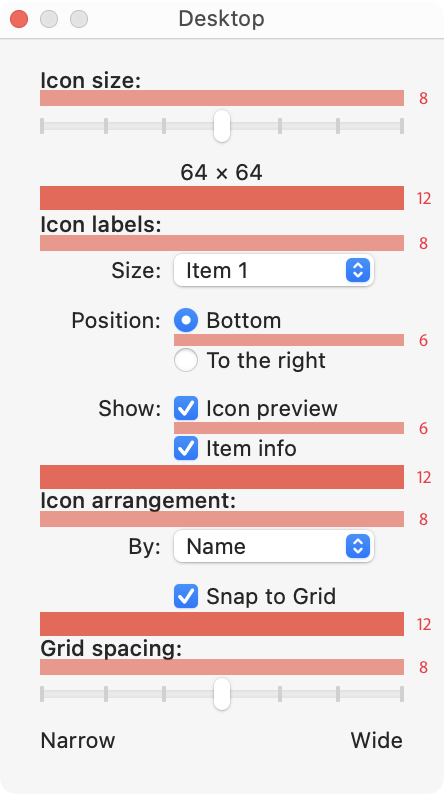
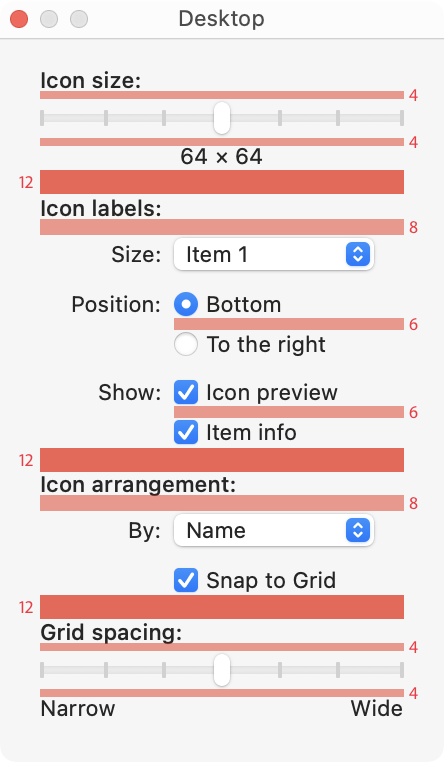
Updating images for Small control size examples

diff --git a/macappdesign/layouts/index.html b/macappdesign/layouts/index.html
@@ -16,7 +16,7 @@
 		<meta property="og:site_name" content="marioaguzman.github.io/macappdesign/layouts">
 		<meta property="og:url" content="" />
 		
-		<title>Mac HIG - Layouts</title>
+		<title>Mac Layout Guidelines</title>
 		
 	</head>
 
@@ -309,9 +309,10 @@
 					
 					<p><b>Spacing between individual controls</b></p>
 					<ul>
-						<li>Use equal spacing between groups of controls. Use 12 points.</li>
-						<li>Use equal spacing between section labels and the first control in the section. 
-							For example, use 8 points between the label "Icon labels:" and the first row below it.</li>
+						<li>Use 12-point spacing between sections (above subsequent section labels in bold).</li>
+						<li>Use 8-point spacing between the the section title (lable in bold) and the first control of that section.</li>
+						<li>When using sliders, use 4-point spacing between the section title and 4-point spacing between asscociated labels underneath.</li>
+						<li>Use 6-point spacing between controls like checkboxes or radio button groups.</li>
 					</ul>
 					
 					<img srcset="images/smallcontrolsvertspacing.png, 
@@ -371,9 +372,9 @@
 					
 					<p><b>Spacing between individual controls</b></p>
 					<ul>
-						<li>Use 12 point spacing between the last control of a section and the title for the next section (bold labels)</li>
-						<li>Use 8 point spacing between the title for the section (bold labels) and the first control in its section.</li>
-						<li>Use 4 points between related checkbox buttons or radio button groups.</li>
+						<li>Use 12-point spacing between the last control of a section and the title for the next section (bold labels)</li>
+						<li>Use 8-point spacing between the title for the section (bold labels) and the first control in its section.</li>
+						<li>Use 4-point spacing between related checkbox buttons or radio button groups.</li>
 					</ul>
 					
 					<img srcset="images/minicontrolslayoutspacing.png, 
